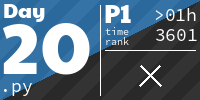
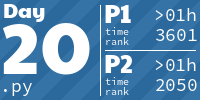
Add day 21

diff --git a/2024/21/21.py b/2024/21/21.py
@@ -1,0 +1,119 @@
+from collections import *
+from random import *
+from itertools import *
+from functools import *
+import numpy as np
+import networkx as nx
+# import z3
+import re
+import sys
+sys.setrecursionlimit(1000000)
+
+s1 = s2 = 0
+
+d4 = [1, 1j, -1, -1j]
+d8 = d4 + [1+1j, 1-1j, -1+1j, -1-1j]
+d4half = [i/2 for i in d4]
+d8half = [i/2 for i in d8]
+def adjacent(coord, dirs=d4):
+    return [coord + d for d in dirs]
+
+N = """
++---+---+---+
+| 7 | 8 | 9 |
++---+---+---+
+| 4 | 5 | 6 |
++---+---+---+
+| 1 | 2 | 3 |
++---+---+---+
+    | 0 | A |
+    +---+---+
+"""
+N = """
+789
+456
+123
+ 0A
+"""
+NC = {c: (x,y) for y, r in enumerate(N.splitlines()) for x, c in enumerate(r)}
+
+R = """
+    +---+---+
+    | ^ | A |
++---+---+---+
+| < | v | > |
++---+---+---+
+"""
+R = """
+ ^A
+<v>
+"""
+RC = {c: (x,y) for y, r in enumerate(R.splitlines()) for x, c in enumerate(r)}
+print(NC)
+
+@cache
+def path_to(start, end, numpad):
+    pad = NC if numpad else RC
+    sx,sy = pad[start]
+    ex,ey = pad[end]
+    dx = ex-sx
+    dy = ey-sy
+    spacex, spacey = pad[" "]
+    # print(dx, dy)
+    ri = ""
+    up = ""
+    if not (sx == spacex and sy+dy == spacey):
+    # if sx+dx == spacex and sy == spacey:
+        up += ("^" if dy < 0 else "v") * abs(dy)
+        up += ("<" if dx < 0 else ">") * abs(dx)
+
+    if not (sx+dx == spacex and sy == spacey):
+    # else:
+        ri += ("<" if dx < 0 else ">") * abs(dx)
+        ri += ("^" if dy < 0 else "v") * abs(dy)
+
+    if up and ri:
+        s = up if random() < 0.5 else ri
+    else:
+        s = up or ri
+    return s + "A"
+    
+# print(path_to("<", "A", RC))
+# print(path_to("A", "<", RC))
+# exit()
+
+def solve(code):
+    prev = 'A'
+    seq = code
+    for i in range(len(state)-1, -1, -1):
+        pad = i == len(state)-1
+        # print(i, pad)
+        new_seq = ""
+        for char in seq:
+            new_seq += path_to(prev, char, pad)
+            prev = char
+        seq = new_seq
+        print(i, len(seq))
+        # print()
+    return int(code[:-1]) * len(seq)
+
+print(68 * 29, 60 * 980, 68 * 179, 64 * 456, 64 * 379)
+
+def simul(code):
+    robots = 26
+    return min(solve(code) for _ in range(1))
+
+# re.findall(r"\d+", line)
+for line in open(0):
+    # s = solve(line.strip(), list("AAA"))
+    s = simul(line.strip())
+    print(line.strip(), s)
+    s1 += s
+    # exit()
+    
+
+print(s1, s2, sep="\n")
+# 211930
+# 217398
+# 215546
+# 990957

diff --git a/README.md b/README.md
@@ -1,9 +1,9 @@
 <!-- AOC TILES BEGIN -->
 <h1 align="center">
-  Advent of Code - 249/490 ⭐
+  Advent of Code - 251/492 ⭐
 </h1>
 <h1 align="center">
-  2024 - 39 ⭐ - Python
+  2024 - 41 ⭐ - Python
 </h1>
 <a href="2024/01/01.py">
   <img src=".aoc_tiles/tiles/2024/01.png" width="161px">
@@ -64,6 +64,9 @@
 </a>
 <a href="2024/20/20.py">
   <img src=".aoc_tiles/tiles/2024/20.png" width="161px">
+</a>
+<a href="2024/21/21.py">
+  <img src=".aoc_tiles/tiles/2024/21.png" width="161px">
 </a>
 <h1 align="center">
   2023 - 50 ⭐ - Python
